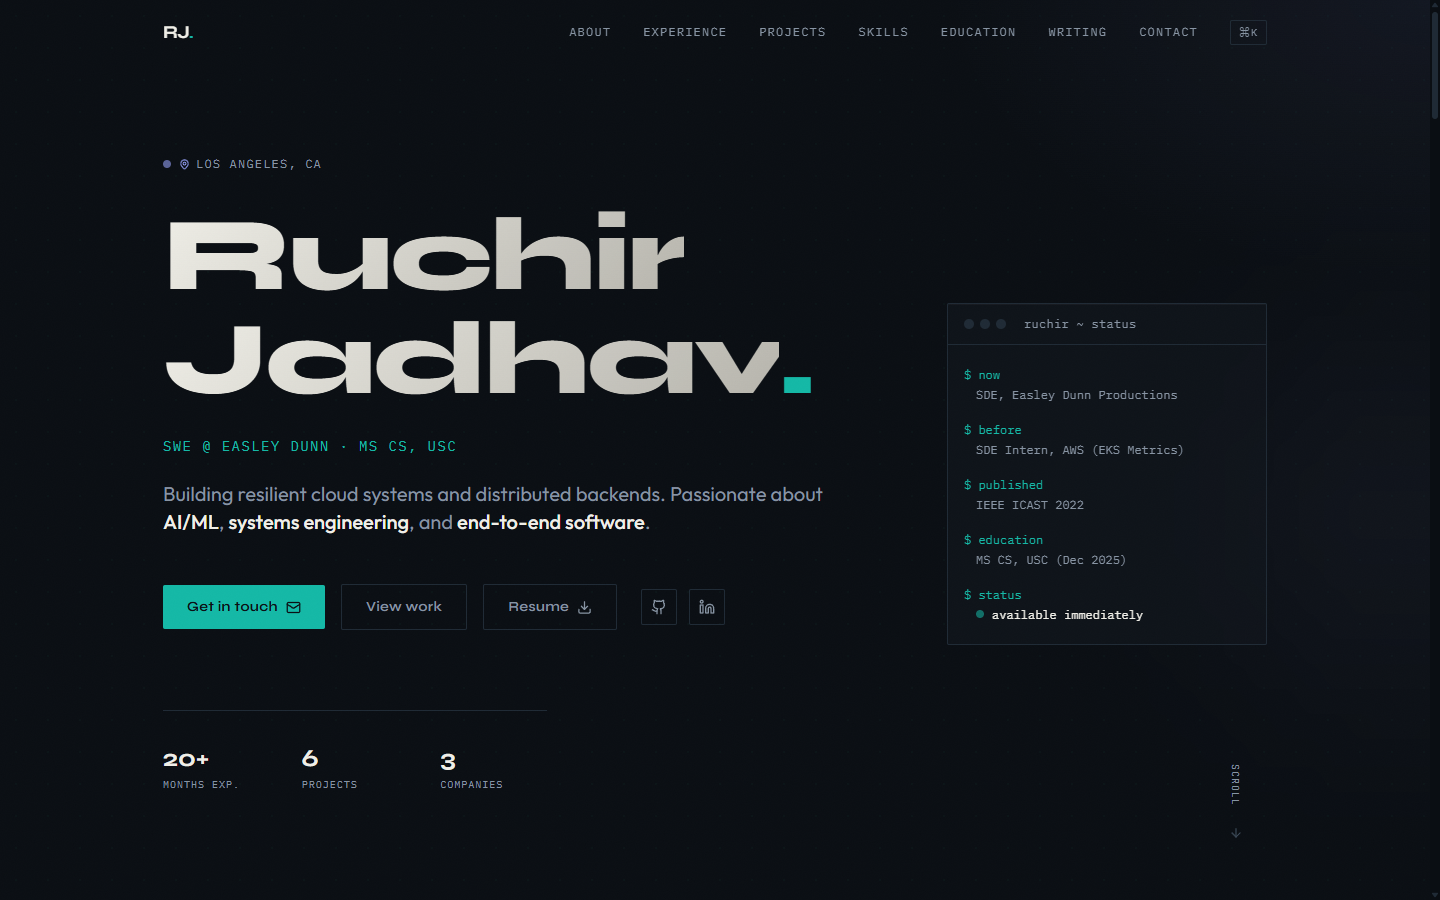
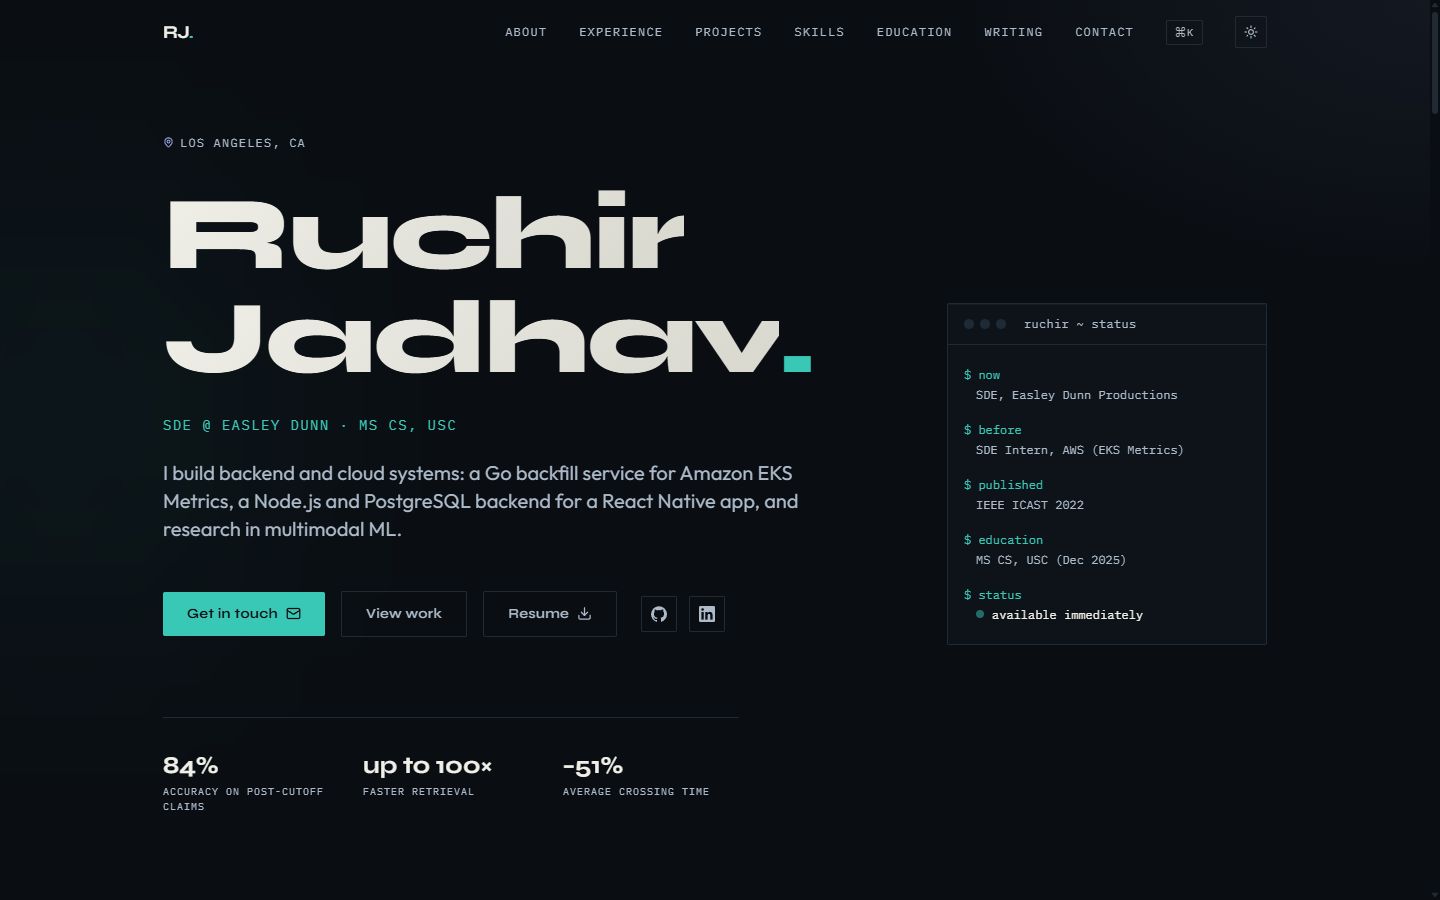
Refresh the README screenshots and describe the current stack and CI

diff --git a/README.md b/README.md
@@ -17,11 +17,11 @@ My personal portfolio and writing site: a fully static Next.js app that shows my
 
 ## Stack
 
-Next.js 16 (App Router, fully static) · React 19 · TypeScript · Tailwind CSS 3 · [motion](https://motion.dev/) · MDX via Velite · deployed on Vercel.
+Next.js 16 (App Router, fully static) · React 19 · TypeScript · Tailwind CSS 4 · [motion](https://motion.dev/) · MDX via Velite · deployed on Vercel.
 
 ## Quality gates
 
-Every push runs GitHub Actions: ESLint, `tsc`, a colour-contrast check for both themes and for high-contrast mode, a production build, a dependency-free smoke test of the built pages, and Lighthouse CI on every page in both themes. Accessibility and SEO must score at least 0.95 or the build fails; performance and best practices warn.
+Every push runs GitHub Actions: ESLint, `tsc`, a colour-contrast check for both themes and for high-contrast mode, a production build, a dependency-free smoke test of the built pages, and Lighthouse CI on every page in both themes. Accessibility and SEO must score at least 0.95 or the build fails; performance and best practices warn. A second run on the mobile preset warns when Largest Contentful Paint passes 2.5 seconds.
 
 ## Run it locally
 
